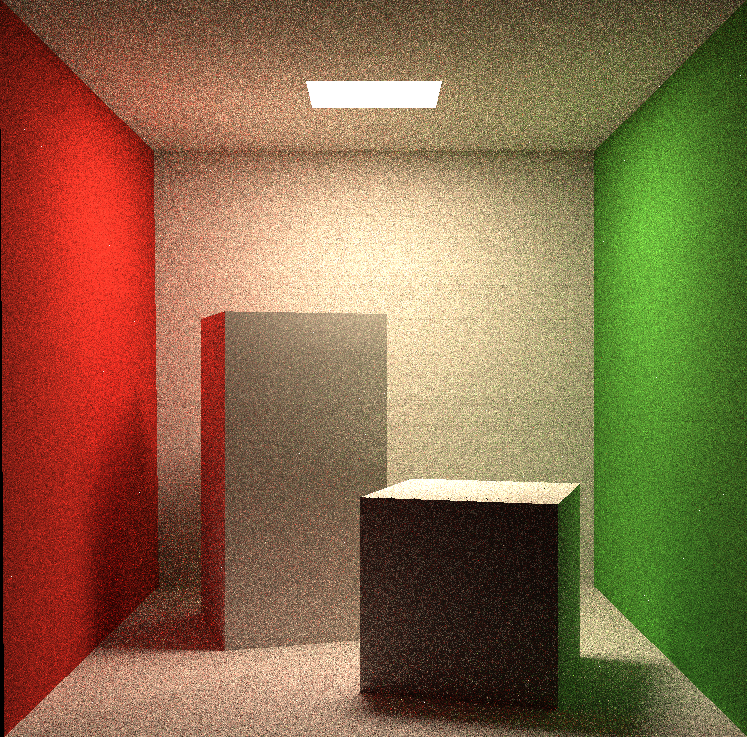
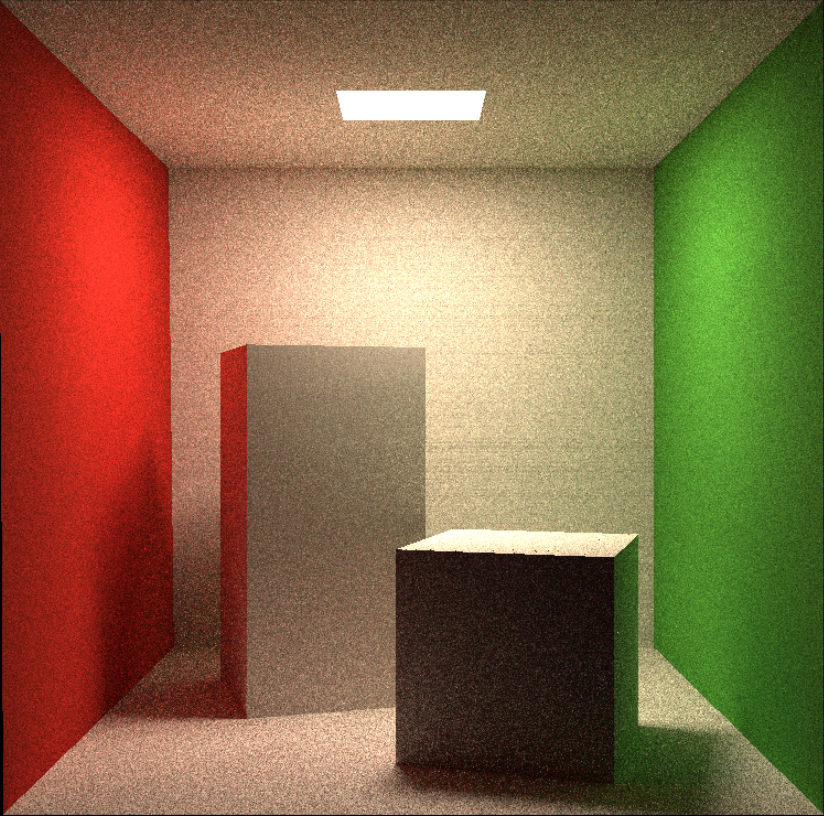
docs: use 2048 pps image

diff --git a/README.md b/README.md
@@ -5,7 +5,7 @@
 ## 作业结果截图
 
 <details>
-    <summary><strong>作业 1</strong></summary>
+    <summary><strong>作业 1 Rotation and Projection</strong></summary>
     <table><tr>
         <td>
     		<img src="Image/hw1/hw1_0.png" border=0>
@@ -14,7 +14,7 @@
 </details>
 
 <details>
-    <summary><strong>作业 2</strong></summary>
+    <summary><strong>作业 2 Triangles and Z-buffering</strong></summary>
     <table><tr>
 		<td>
             <img src="Image/hw2/rasterizer.png" border=0>
@@ -28,7 +28,7 @@
 </details>
 
 <details>
-    <summary><strong>作业 3</strong></summary>
+    <summary><strong>作业 3 Pipeline and Shading</strong></summary>
     <table><tr>
         <td>
     		<img src="Image/hw3/normal.png" border=0>
@@ -54,7 +54,7 @@
 </details>
 
 <details>
-    <summary><strong>作业 4</strong></summary>
+    <summary><strong>作业 4 Bézier Curve</strong></summary>
     <table><tr>
         <td>
     		<img src="Image/hw4/bezier_green.png" border=0>
@@ -66,7 +66,7 @@
 </details>
 
 <details>
-    <summary><strong>作业 5</strong></summary>
+    <summary><strong>作业 5 Ray Triangle Intersection</strong></summary>
     <table><tr>
         <td>
     		<img src="Image/hw5/binary.png" border=0>
@@ -75,7 +75,7 @@
 </details>
 
 <details>
-    <summary><strong>作业 6</strong></summary>
+    <summary><strong>作业 6 Bounding Volume Hierarchy</strong></summary>
     <table><tr>
         <td>
     		<img src="Image/hw6/binary.png" border=0>
@@ -84,11 +84,11 @@
 </details>
 
 <details>
-    <summary><strong>作业 7</strong></summary>
+    <summary><strong>作业 7 Path Tracing</strong></summary>
     <table><tr>
         <td>
             <img src="Image/hw7/binary.png" border=0>
-            <p style="display: block; text-align: center; color: #969696;padding: 10px;">spp=1000</p>
+            <p style="display: block; text-align: center; color: #969696;padding: 10px;">spp=2048</p>
         </td>
     </tr></table>
 </details>
